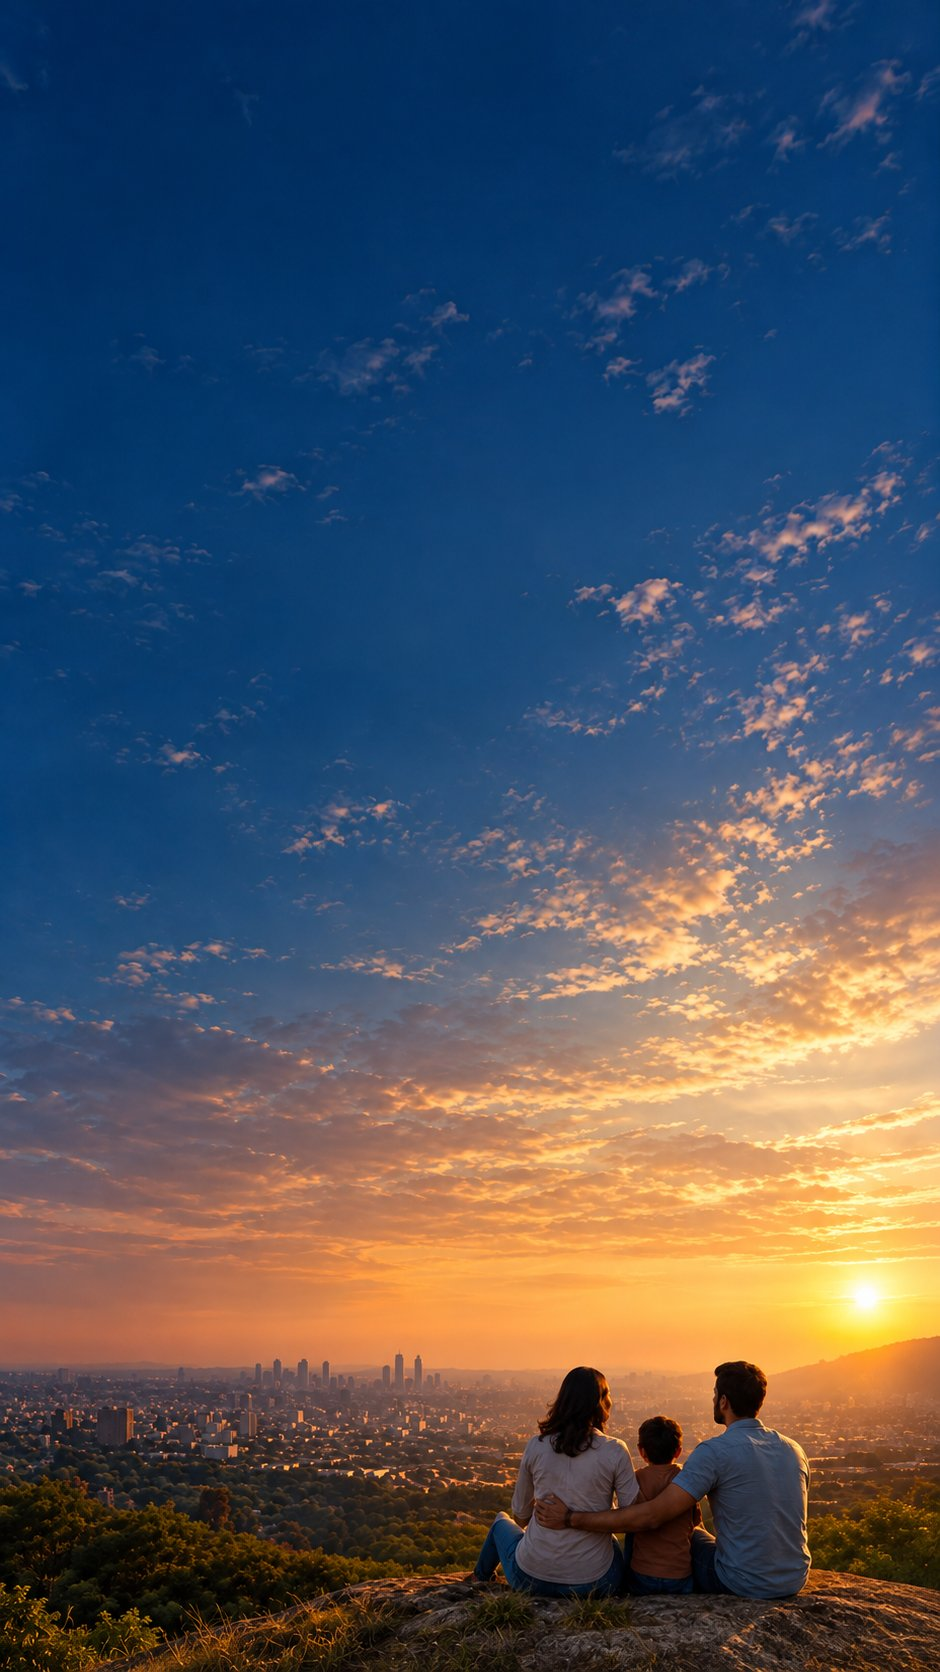
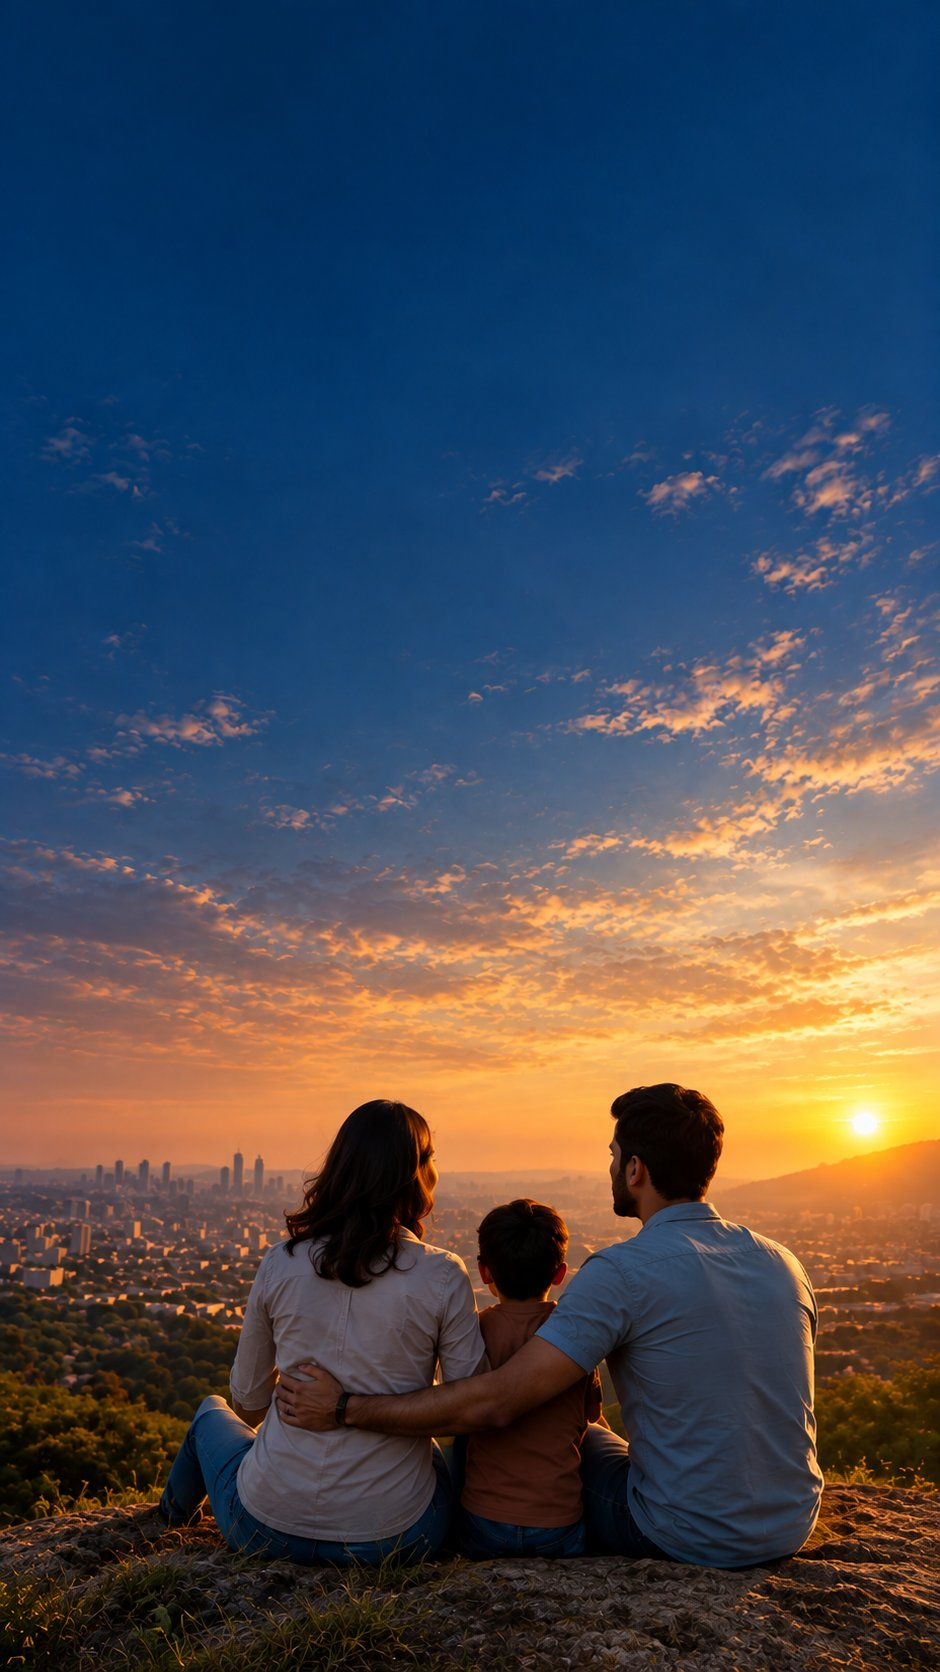
Swap in bigger-family hero image and fix trust row overlapping heads
User reported the Trusted Guidance / Simple Process / Long-Term
Support row overlapping the family's heads in the photo. Two changes:

1. Replaced hero image with a new version where the family occupies
   roughly the bottom third of the frame instead of a thin strip at
   the very bottom (same 940x1672 portrait ratio as before, so the
   crop math established last commit still holds).

2. Root fix: increased .hero-photo min-height (640px -> 780px
   desktop, 580px -> 720px mobile). The trust row was landing on top
   of the family because the section's actual rendered height (with
   the long headline + paragraph + eyebrow + two buttons + trust row
   all stacked) exceeded the old min-height, and object-position:
   center bottom anchors the subject to the very bottom of whatever
   box results — so a too-short box pushed the text content down
   into direct contact with the family. Re-verified with the same
   crop-math approach as before: at the new mobile min-height there
   is 0px of vertical overflow to crop, so the family's lower body
   stays fully in frame with margin.

CSS cache version bumped to v=16.

diff --git a/css/style.css b/css/style.css
@@ -103,7 +103,7 @@ nav {
 .btn-hero-ghost:hover { border-color: var(--gold); color: var(--gold); }
 
 /* ─── PHOTO HERO ─── */
-.hero-photo { position: relative; padding: 0; overflow: hidden; min-height: 640px; display: flex; align-items: center; }
+.hero-photo { position: relative; padding: 0; overflow: hidden; min-height: 780px; display: flex; align-items: center; }
 .hero-photo-bg { position: absolute; inset: 0; z-index: 0; }
 .hero-photo-bg img { width: 100%; height: 100%; object-fit: cover; object-position: center bottom; display: block; }
 .hero-photo-overlay {
@@ -139,8 +139,8 @@ nav {
 }
 .hero-trust-item svg { width: 22px; height: 22px; stroke: var(--gold); flex-shrink: 0; }
 @media (max-width: 480px) {
-  .hero-photo { min-height: 580px; }
-  .hero-photo-content { padding: 56px 20px 44px; }
+  .hero-photo { min-height: 720px; }
+  .hero-photo-content { padding: 56px 20px 60px; }
   .hero-trust-row { gap: 22px; }
 }
 

diff --git a/index.html b/index.html
@@ -25,7 +25,7 @@
 <link rel="preconnect" href="https://fonts.googleapis.com"/>
 <link rel="preconnect" href="https://fonts.gstatic.com" crossorigin/>
 <link href="https://fonts.googleapis.com/css2?family=Playfair+Display:ital,wght@0,400;0,600;0,700;1,400;1,600&family=Inter:wght@300;400;500;600&display=swap" rel="stylesheet"/>
-<link rel="stylesheet" href="css/style.css?v=15"/>
+<link rel="stylesheet" href="css/style.css?v=16"/>
 </head>
 <body>
 
